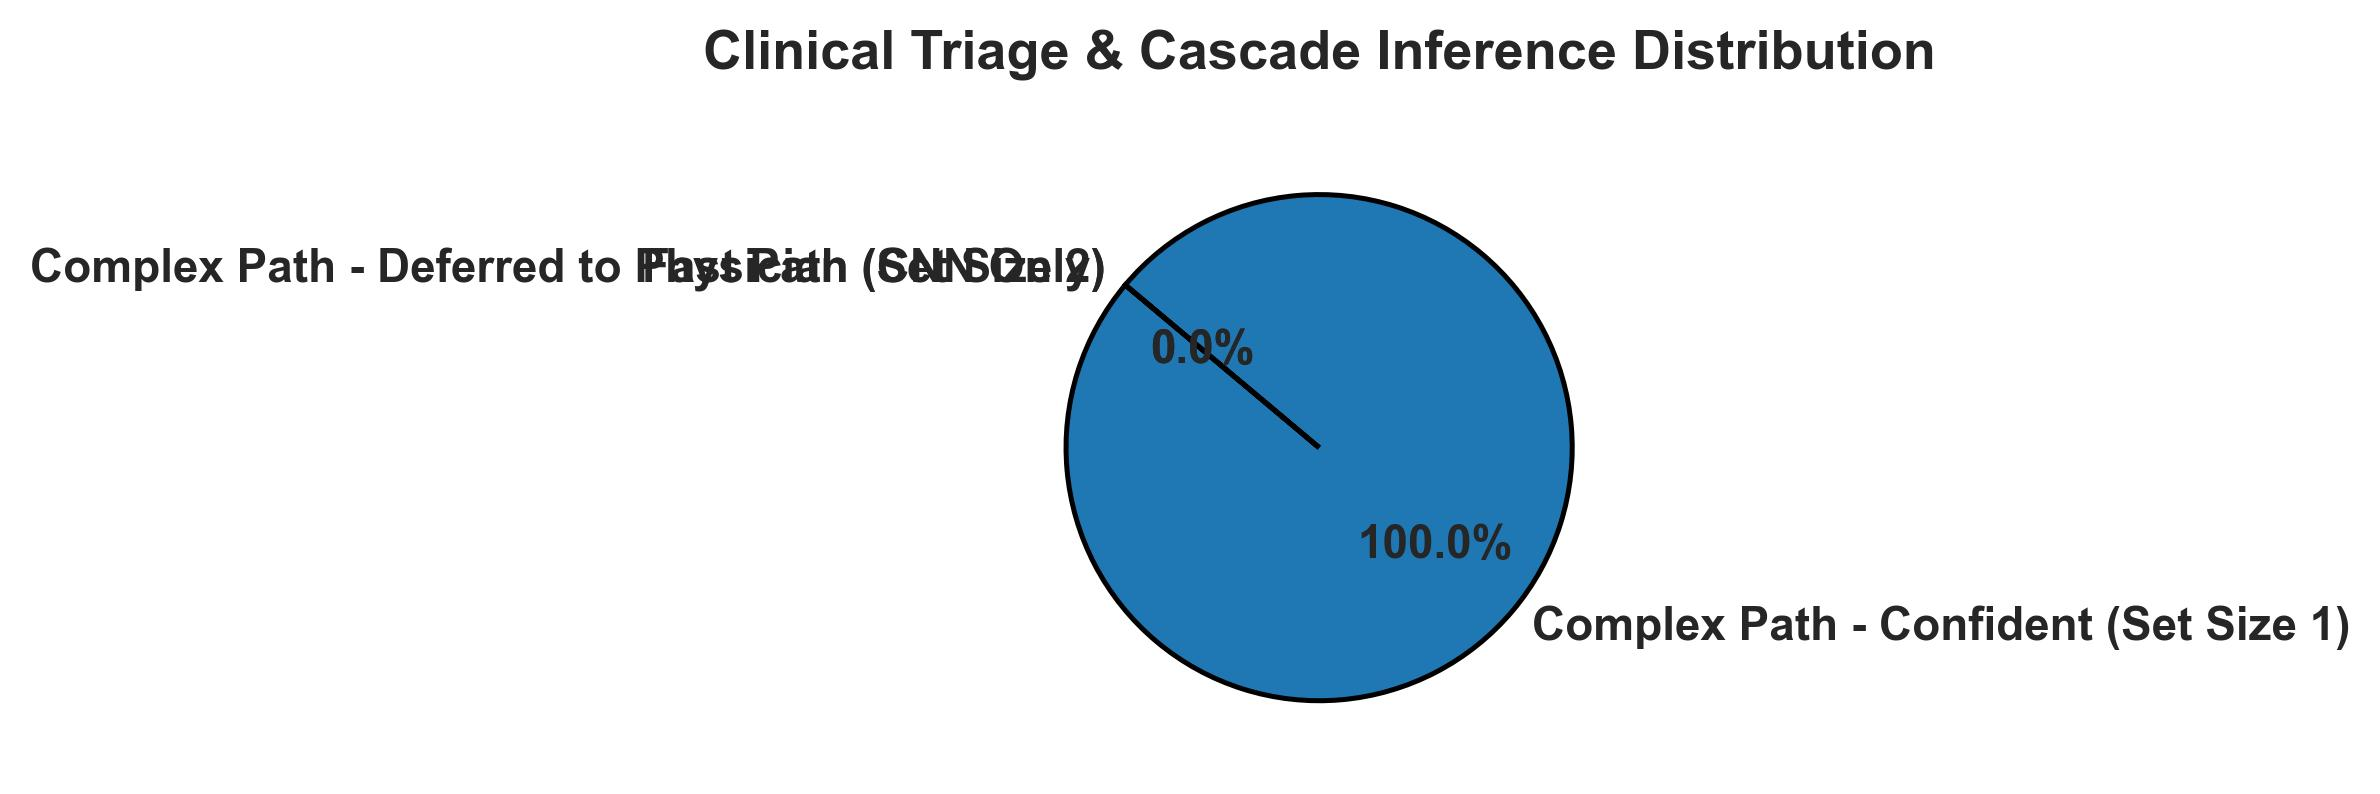
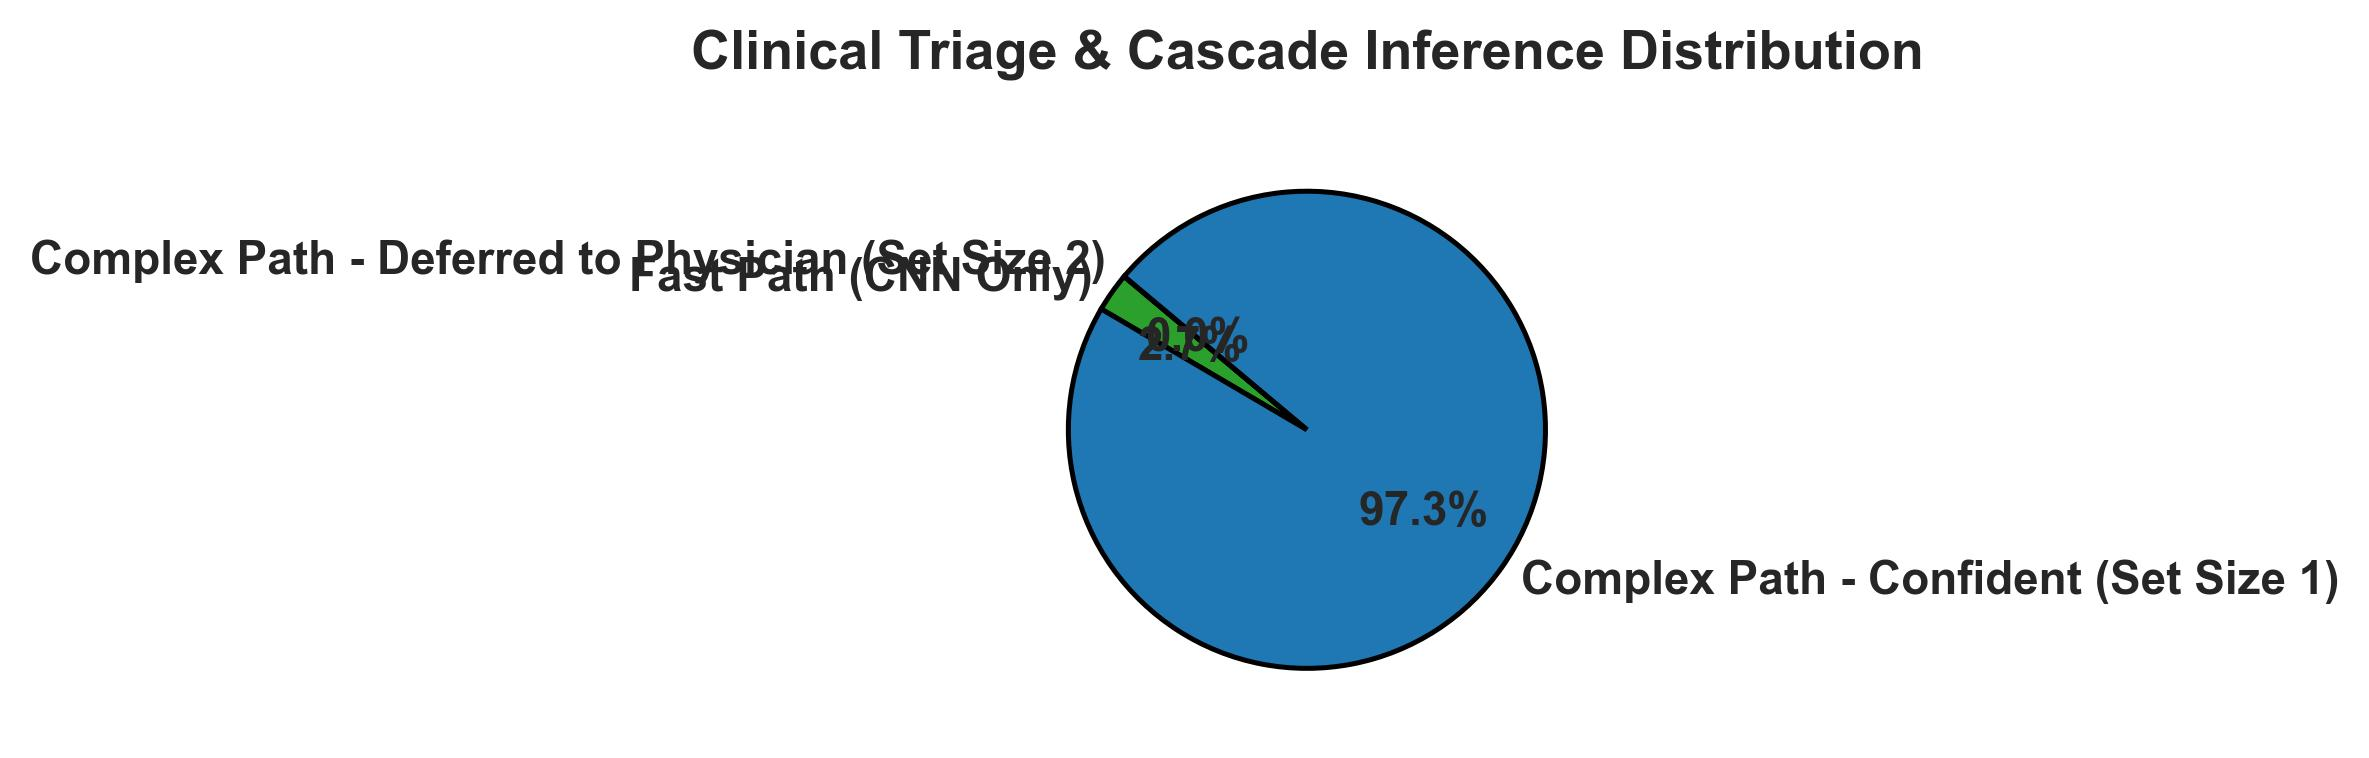
Fix early-exit threshold to tau=0.75 and use Platt scaling for conformal prediction

diff --git a/topological_shap_conformal_pipeline.py b/topological_shap_conformal_pipeline.py
@@ -40,7 +40,7 @@ warnings.filterwarnings("ignore", category=UserWarning)
 # =====================================================================
 # 1. Cascading Early-Exit & Conformal Prediction Loop
 # =====================================================================
-def run_early_exit_conformal_fold(X_hybrid_train, y_train, X_hybrid_val, y_val, tda_dim=5600, tau=0.95, alpha=0.05, cal_size=0.2, random_state=RANDOM_STATE):
+def run_early_exit_conformal_fold(X_hybrid_train, y_train, X_hybrid_val, y_val, tda_dim=5600, tau=0.75, alpha=0.05, cal_size=0.2, random_state=RANDOM_STATE):
     """
     Evaluates a single fold using Dynamic Early-Exit and Split Conformal Prediction.
     """
@@ -66,8 +66,8 @@ def run_early_exit_conformal_fold(X_hybrid_train, y_train, X_hybrid_val, y_val, 
     base_complex_model = ExtraTreesClassifier(n_estimators=500, class_weight='balanced', random_state=random_state, n_jobs=-1)
     base_complex_model.fit(X_pt_scaled, y_pt)
     
-    # Wrap in CalibratedClassifierCV with isotonic calibration pre-fit on calibration set using FrozenEstimator
-    calibrated_complex_model = CalibratedClassifierCV(estimator=FrozenEstimator(base_complex_model), method='isotonic')
+    # Wrap in CalibratedClassifierCV with Platt scaling (sigmoid) pre-fit on calibration set using FrozenEstimator
+    calibrated_complex_model = CalibratedClassifierCV(estimator=FrozenEstimator(base_complex_model), method='sigmoid')
     calibrated_complex_model.fit(X_cal_scaled, y_cal)
     
     # Compute non-conformity scores on calibration set using the calibrated complex model
@@ -75,10 +75,9 @@ def run_early_exit_conformal_fold(X_hybrid_train, y_train, X_hybrid_val, y_val, 
     cal_scores = 1.0 - cal_probs[np.arange(len(y_cal)), y_cal]
     
     # Calculate q_hat for conformal prediction (95% coverage)
-    n_cal = len(cal_scores)
-    k = int(np.ceil((n_cal + 1) * (1.0 - alpha)))
-    k = min(max(k, 1), n_cal)
-    q_hat = np.sort(cal_scores)[k - 1]
+    q_val = (1.0 - alpha) * (1.0 + 1.0 / len(cal_scores))
+    q_val = min(max(q_val, 0.0), 1.0)
+    q_hat = np.quantile(cal_scores, q_val)
     
     # C. Inference on Validation Set
     X_val_cnn = scaler_cnn.transform(X_hybrid_val[:, tda_dim:])
@@ -269,7 +268,7 @@ def main():
             X_hybrid_val=X_hybrid_val,
             y_val=y_val,
             tda_dim=tda_dim,
-            tau=0.95,
+            tau=0.75,
             alpha=0.05,
             cal_size=0.2,
             random_state=RANDOM_STATE + fold
